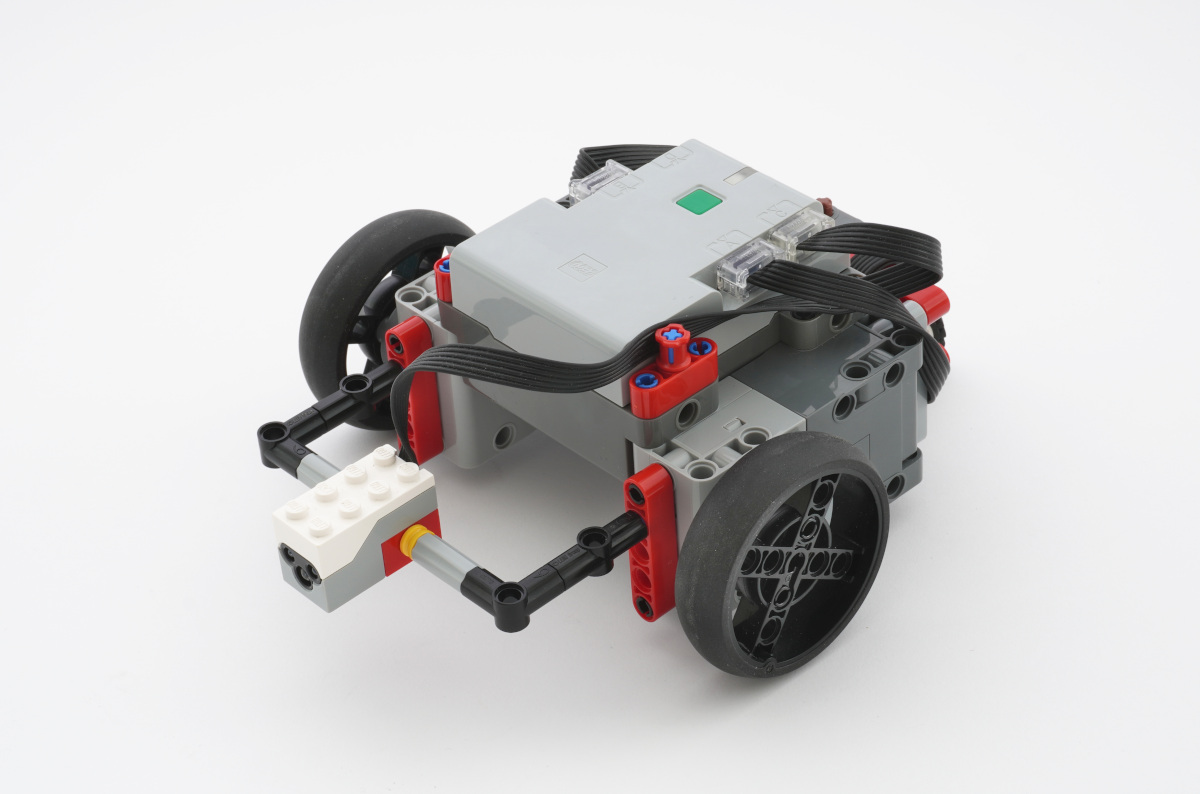
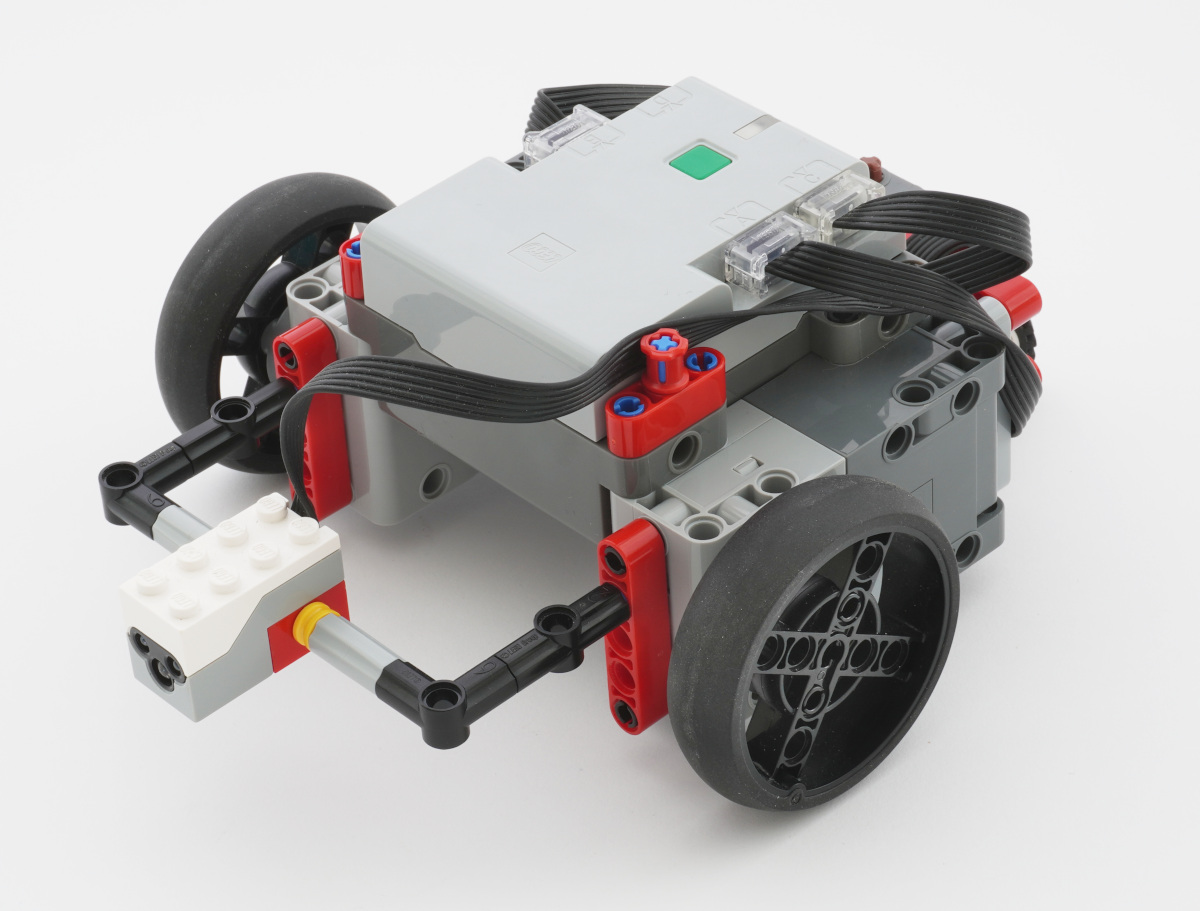
learn: Document StarterBot for Technic and BOOST.

diff --git a/learn/building-a-robot/technic/index.md b/learn/building-a-robot/technic/index.md
@@ -15,7 +15,43 @@ header:
   teaser: /learn/building-a-robot/technic/starterbot-technic-distance.jpg
 ---
 
+The Technic Hub is internally very similar to the SPIKE Prime Hub. This means
+you can follow along with almost every lesson without changes.
+
 {% include scaled.html path="/learn/building-a-robot/technic/starterbot-technic-line.jpg" %}
 
+You can build your StarterBot with one Technic Hub, two
+[motors](/learn/getting-started/what-do-you-need/#choosing-motors) and one or
+two sensors. This page shows some pictures for inspiration, but you can build
+something similar with the pieces already in your collection.
+
+# Building a base
+
+A robot drive base consists of two wheels, each powered by one motor, and a
+support wheel in the back. The motors pictured above make it very easy to mount
+the Technic hub directly on top. If you have other motors, you can use gears to
+drive the wheels if needed.
+
+You can use any type of wheel. Later on, you'll set up the
+code to match the wheel size and width of your robot. 
 
 {% include gallery %}
+
+# The support wheel
+
+The rear of the robot has to be supported so it can move freely. You
+could use:
+- A swivel wheel as pictured above (see [instructions](/learn/building-a-robot/mindstorms-inventor/starterbot-inventor-05.png))
+- A ball caster (see the [SPIKE variant](/learn/building-a-robot/spike-prime/))
+- A sliding contact (see the [City variant](/learn/building-a-robot/city/))
+
+# Adding sensors
+
+You can use the same sensors as used on
+the [SPIKE Prime](/learn/building-a-robot/spike-prime/) StarterBot if you
+already have them, but
+the {% include setlink.html id=88007 %} is generally the more affordable option.
+
+It can measure color as well as rough distance, which makes it
+quite versatile. You can mount it facing downward or forward, depending on the
+application. You could also use two of these sensors at the same time.

diff --git a/learn/building-a-robot/boost/index.md b/learn/building-a-robot/boost/index.md
@@ -15,8 +15,27 @@ gallery:
     title: "You could build a swivel wheel or simply use a rounded element for the robot to lean on."
 ---
 
+The BOOST Move Hub is unique because it has two motors builtin already. You can
+use these to make a BOOST variant of the StarterBot very quickly.
+You can also use one of the standard robots using the instructions that come
+with the kit.
+
 {% include scaled.html path="/learn/building-a-robot/boost/starterbot-boost.jpg" %}
 
+# How to build it 
 
+The hub is placed upright in this design. This ensures that most of the weight
+of the motors and batteries rests on the powered wheels. This creates extra
+grip, which makes its movements much more accurate.
 
 {% include gallery %}
+
+You can adjust the design if you want to use bigger wheels. The BOOST set also
+contains many elements to make this quick build look a bit more interesting.
+
+# Adding sensors
+
+The BOOST set comes with
+the {% include setlink.html id=88007 %} which works well for most of the
+lessons. By mounting it on the robot as shown above, you can easily tilt it to
+face either downward or forward, depending on the application at hand.

diff --git a/learn/building-a-robot/index.md b/learn/building-a-robot/index.md
@@ -8,8 +8,9 @@ header:
 ---
 
 Building a vehicle robot is a great way to get familiar with robotics and
-coding. We'll show you how to build one using SPIKE, MINDSTORMS, Technic, City,
-or BOOST. 
+coding. A basic robot consists of two wheels, each powered by a motor, and a
+support in the back. We'll show you how to build such a robot using SPIKE,
+MINDSTORMS, Technic, City, or BOOST.
 
 **Tip** ⸺ You can also use your own design or competition robot. You'll learn
 to adapt the code to your design along the way. However, it can be
